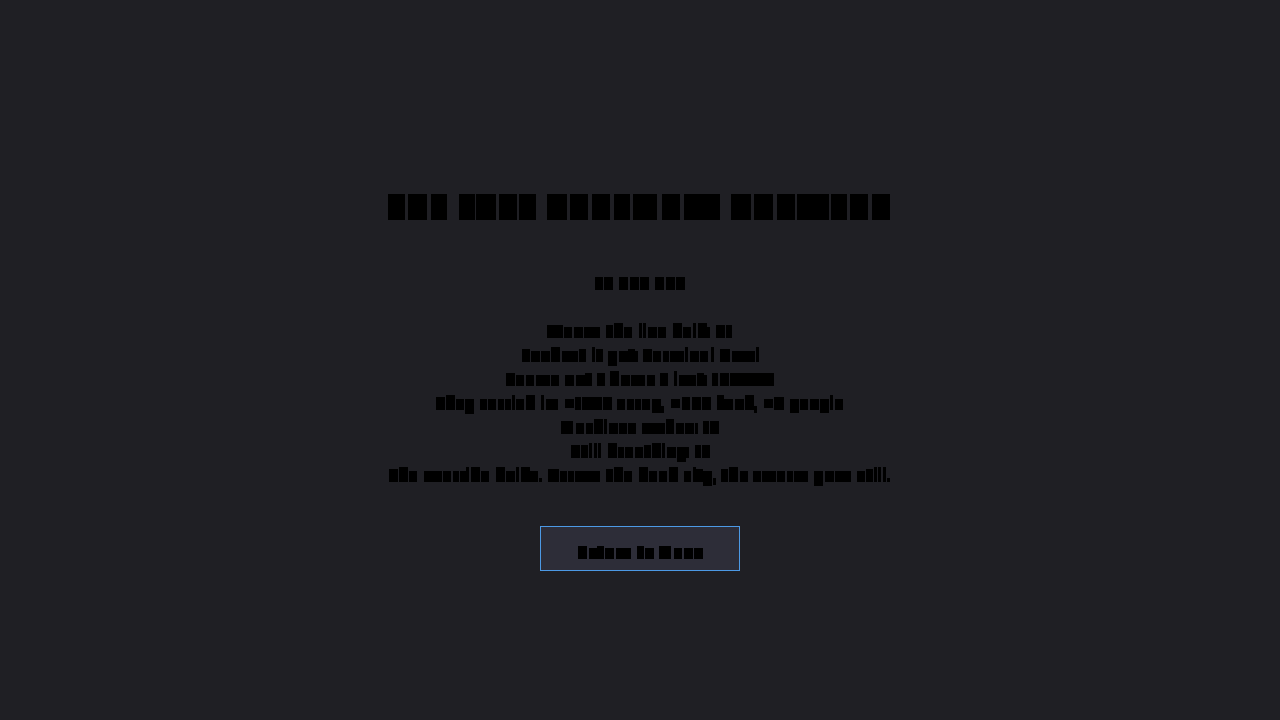
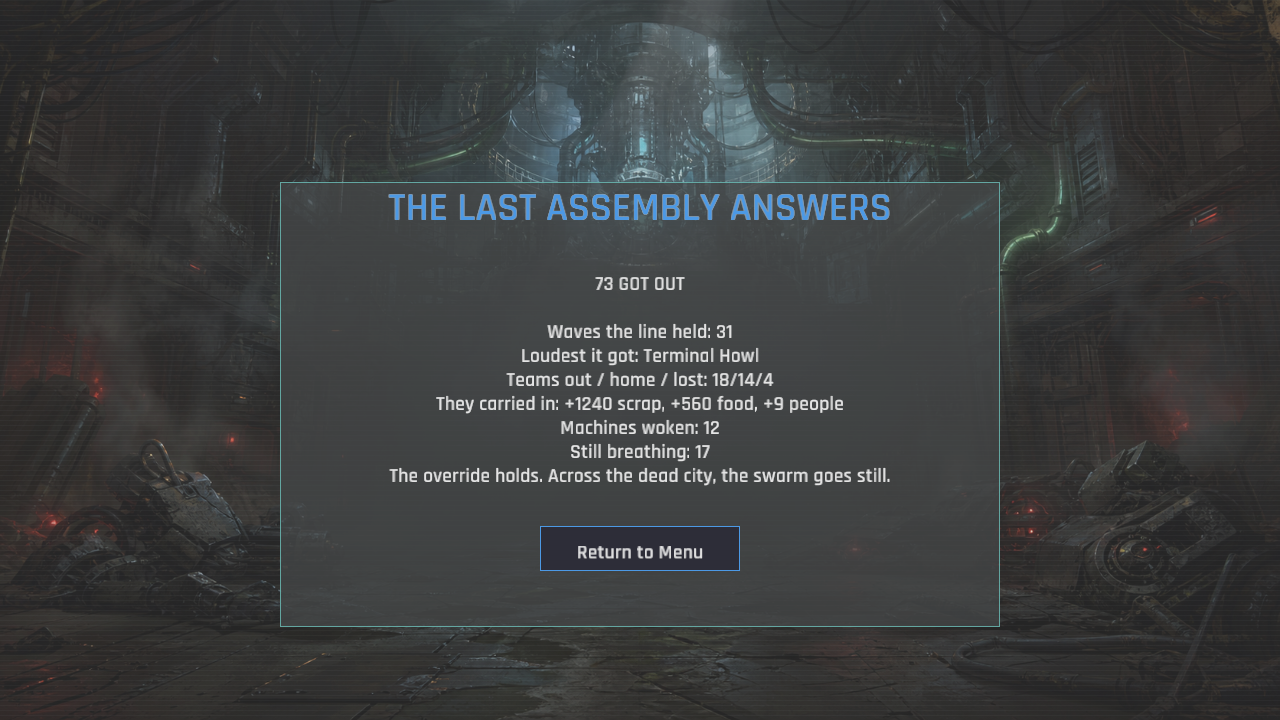
Cold light returns to the chamber that nearly ended us (victory screen artwork)
The newly playable vault ending landed on the same sparse results treatment as an ordinary shutdown, so the campaign's climax had no visual release. A new cinematic factory-vault background now appears only after a successful override: the reclaimed core glows cold above inert swarm wreckage, while a scanlined translucent debrief panel preserves text contrast and touch access. The asset is embedded for native and WebGL builds and its deterministic victory capture has been refreshed.

diff --git a/src/state/results.rs b/src/state/results.rs
@@ -10,6 +10,7 @@ use macroquad_toolkit::ui::{draw_ui_text, measure_ui_text};
 pub struct ResultsState {
     pub summary: RunSummary,
     menu_clicked: bool,
+    victory_texture: Option<Texture2D>,
 }
 
 impl ResultsState {
@@ -17,6 +18,7 @@ impl ResultsState {
         Self {
             summary,
             menu_clicked: false,
+            victory_texture: load_victory_texture(),
         }
     }
 
@@ -29,10 +31,32 @@ impl ResultsState {
     }
 
     pub fn draw(&mut self) {
+        if self.summary.campaign_won {
+            draw_victory_background(self.victory_texture.as_ref());
+        }
         let t = &text().results;
         let center_x = screen_width() / 2.0;
         let center_y = screen_height() / 2.0;
         let report_top = (center_y - 70.0).max(150.0);
+
+        if self.summary.campaign_won {
+            let panel_w = 720.0_f32.min(screen_width() - 32.0);
+            draw_rectangle(
+                center_x - panel_w * 0.5,
+                report_top - 108.0,
+                panel_w,
+                445.0_f32.min(screen_height() - report_top + 100.0),
+                Color::new(0.015, 0.025, 0.028, 0.74),
+            );
+            draw_rectangle_lines(
+                center_x - panel_w * 0.5,
+                report_top - 108.0,
+                panel_w,
+                445.0_f32.min(screen_height() - report_top + 100.0),
+                1.5,
+                Color::new(0.22, 0.72, 0.68, 0.72),
+            );
+        }
 
         let title = if self.summary.campaign_won {
             &t.title_victory
@@ -69,6 +93,43 @@ impl ResultsState {
         if button(btn_x, y + 20.0, btn_w, 45.0, &t.button) {
             self.menu_clicked = true;
         }
+    }
+}
+
+fn load_victory_texture() -> Option<Texture2D> {
+    let image = Image::from_file_with_format(
+        include_bytes!("../../assets/victory_background.png"),
+        Some(ImageFormat::Png),
+    )
+    .ok()?;
+    let texture = Texture2D::from_image(&image);
+    texture.set_filter(FilterMode::Linear);
+    Some(texture)
+}
+
+fn draw_victory_background(texture: Option<&Texture2D>) {
+    let w = screen_width();
+    let h = screen_height();
+    if let Some(texture) = texture {
+        let scale = (w / texture.width()).max(h / texture.height());
+        let draw_w = texture.width() * scale;
+        let draw_h = texture.height() * scale;
+        draw_texture_ex(
+            texture,
+            (w - draw_w) * 0.5,
+            (h - draw_h) * 0.5,
+            WHITE,
+            DrawTextureParams {
+                dest_size: Some(vec2(draw_w, draw_h)),
+                ..Default::default()
+            },
+        );
+    }
+    draw_rectangle(0.0, 0.0, w, h, Color::new(0.0, 0.0, 0.0, 0.18));
+    let mut y = 0.0;
+    while y < h {
+        draw_line(0.0, y, w, y, 1.0, Color::new(0.7, 1.0, 0.96, 0.018));
+        y += 5.0;
     }
 }
 
